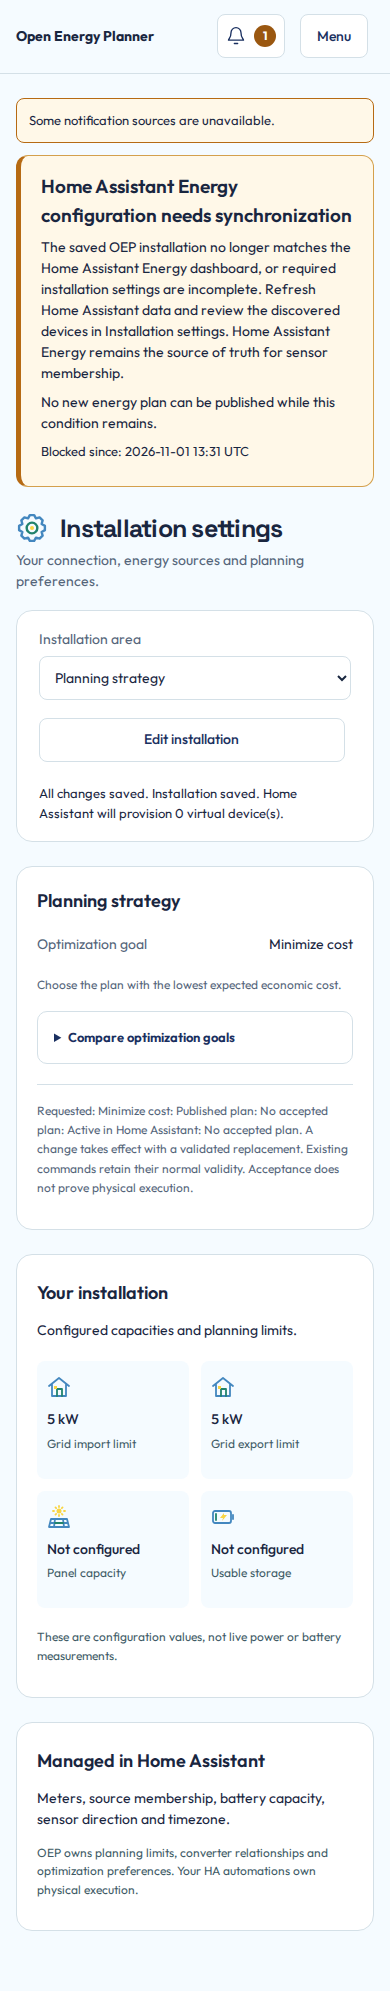
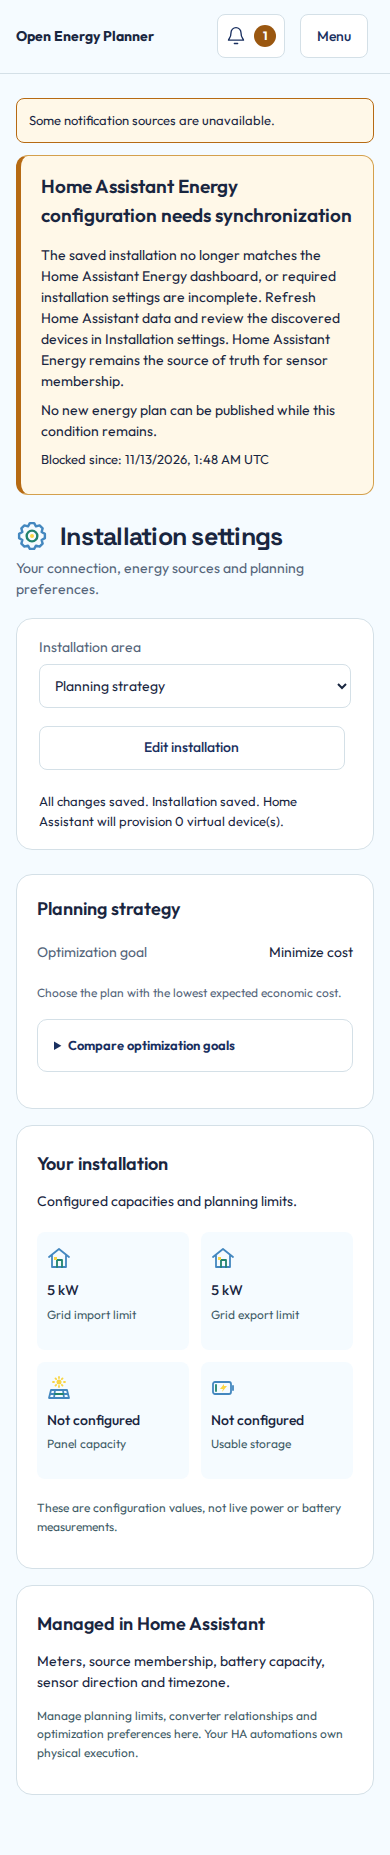
fix: keep background installation reads behind active edits

Changed region(s): [[0.0308, 0.0, 0.9538, 0.9526], [0.8615, 0.338, 0.8923, 0.3995]]

diff --git a/src/open_energy_planner/web/public/setup.js b/src/open_energy_planner/web/public/setup.js
@@ -774,8 +774,7 @@ async function refreshPriceSources() {
         $("price-source-provenance").replaceChildren();
         $("price-market").textContent = "Price source status unavailable. Retrying automatically.";
     }
-    // A delayed price response must not supersede an explicit preference save or reload.
-    if (!saveState.busy) refreshStrategy();
+    refreshStrategy();
     try { await refreshSourceNames(); }
     catch { /* Retain the last confirmed names when metadata is temporarily unavailable. */ }
     priceTimer = setTimeout(refreshPriceSources, PRICE_STATUS_REFRESH_MS);
@@ -818,7 +817,12 @@ async function refreshSourceNames(signal) {
 /** Reload HA discovery and confirmed settings. Keep source identities and independent revision guards. */
 async function load(refresh = false, discard = false, signal) {
     const generation = ++configurationGeneration;
-    const nextConfig = await api(refresh ? "/v1/setup?refresh=1" : "/v1/setup", "GET", undefined, signal);
+    let nextConfig;
+    try { nextConfig = await api(refresh ? "/v1/setup?refresh=1" : "/v1/setup", "GET", undefined, signal); }
+    catch (error) {
+        if (generation !== configurationGeneration) return;
+        throw error;
+    }
     if (generation !== configurationGeneration) return;
     if (nextConfig.mode !== "home_assistant")
         throw new Error("Installation setup requires Home Assistant mode.");
@@ -1141,6 +1145,8 @@ initializeIngress();
 
 /** Load the independent preference without delaying installation rendering or reporting aborted reads. */
 async function refreshStrategy(updateChoice = false, signal) {
+    // Background reads must yield to the active save or reload's preference baseline.
+    if (!updateChoice && saveState.busy) return;
     const pending = loadStrategy(updateChoice, signal);
     const requestVersion = strategyRequestVersion;
     try { await pending; }

diff --git a/tests/frontend/browser/test_installation.py b/tests/frontend/browser/test_installation.py
@@ -18,6 +18,7 @@ from tests.frontend.browser.helpers import (
     installation_area,
     physical_plan,
     read_settings,
+    wait_for_product_reads,
 )
 
 
@@ -1445,6 +1446,8 @@ def test_installation_is_usable_before_strategy_preference_arrives(app_page):
     expect(page.get_by_label("Maximum grid import (kW)", exact=True)).to_be_visible()
     page.get_by_label("Maximum grid import (kW)", exact=True).fill("7")
     assert pending
+    expect(page.locator("#strategy")).to_have_value("")
+    expect(page.locator("#strategy")).to_be_disabled()
     for route in pending:
         route.fulfill(json={"requested": "minimize cost", "issue": None})
     page.unroute("**/v1/strategy")
@@ -1584,4 +1587,66 @@ def test_strategy_reload_owns_baseline_during_inflight_price_poll(app_page, acti
         page.clock.fast_forward(31000)
     expect(page.locator("#strategy")).to_have_value(next_goal)
     expect(page.locator("#strategy-status")).to_be_empty()
+    expect(page.locator("#installation-save-state")).to_contain_text("All changes saved")
+
+
+def test_pending_discovery_cannot_supersede_saved_strategy_baseline(app_page):
+    """An Energy-discovery retry during a real strategy save must preserve its confirmed baseline and next CAS write."""
+    page, url = app_page
+    page.clock.install()
+    page.goto(url + "/setup")
+    page.get_by_label("Installation API token", exact=True).fill(TOKEN)
+    page.get_by_role("button", name="Connect", exact=True).click()
+    edit_strategy(page)
+    wait_for_product_reads(page)
+    page.get_by_label("Optimization goal", exact=True).select_option("minimize consumption")
+    pending = []
+
+    def hold_explicit_preference(route):
+        """Hold the save confirmation read while the real discovery timer issues background reads."""
+        if route.request.method != "GET":
+            route.continue_()
+        elif not pending:
+            pending.append(route)
+            page.evaluate("window.savedPreferenceReadHeld = true")
+        else:
+            route.fulfill(json={"requested": "minimize consumption", "issue": None})
+
+    page.route("**/v1/strategy", hold_explicit_preference)
+    with page.expect_request(
+        lambda request: request.url.endswith("/v1/strategy") and request.method == "GET"
+    ):
+        page.get_by_role("button", name="Save planning strategy", exact=True).click()
+    page.wait_for_function("() => window.savedPreferenceReadHeld === true")
+    expect(page.locator("#installation-save-state")).to_contain_text("Saving changes")
+    page.clock.fast_forward(5100)
+    expect(page.locator("#status")).to_contain_text("Waiting for Home Assistant")
+    expect(page.locator("#strategy")).to_be_disabled()
+    pending[0].fulfill(json={"requested": "minimize consumption", "issue": None})
+    expect(page.locator("#installation-save-state")).to_contain_text("All changes saved")
+    expect(page.locator("#strategy")).to_have_value("minimize consumption")
+    headers = {"Authorization": f"Bearer {TOKEN}"}
+    assert page.request.get(url + "/v1/strategy", headers=headers).json() == {
+        "requested": "minimize consumption",
+        "issue": None,
+    }
+    page.unroute("**/v1/strategy")
+    edit_strategy(page)
+    page.get_by_label("Optimization goal", exact=True).select_option("minimize cost")
+    with page.expect_request(
+        lambda request: request.url.endswith("/v1/strategy") and request.method == "PUT"
+    ) as saved_request:
+        page.get_by_role("button", name="Save planning strategy", exact=True).click()
+    assert saved_request.value.post_data_json == {
+        "strategy": "minimize cost",
+        "expected_strategy": "minimize consumption",
+    }
+    expect(page.locator("#installation-save-state")).to_contain_text("All changes saved")
+    assert (
+        page.request.get(url + "/v1/strategy", headers=headers).json()["requested"]
+        == "minimize cost"
+    )
+    assert read_settings(page, url)["installation"] is None
+    page.clock.fast_forward(5100)
+    expect(page.locator("#strategy")).to_have_value("minimize cost")
     expect(page.locator("#installation-save-state")).to_contain_text("All changes saved")

diff --git a/tests/frontend/browser/test_installation_reload_ownership.py b/tests/frontend/browser/test_installation_reload_ownership.py
@@ -94,7 +94,7 @@ def test_export_permission_preserves_captured_field_ownership(app_page, ownershi
 def test_delayed_background_reload_preserves_newer_installation_ownership(
     app_page, action, outcome
 ):
-    """Release the actual source-name reload's held strategy response after Edit or Save and retain its draft/revisions."""
+    """Release the actual source-name reload's held configuration response after Edit or Save and retain its draft/revisions."""
     page, url = app_page
 
     def expose_probe(route):
@@ -120,21 +120,22 @@ def test_delayed_background_reload_preserves_newer_installation_ownership(
     changed["solar"]["version"] = "b" * 64
     page.route("**/v1/setup", lambda route: route.fulfill(json=changed))
     page.evaluate(
-        """outcome => {
+        """({outcome,changed}) => {
         const nativeFetch=window.fetch;
-        window.strategyHeld=false;
+        let configurationReads=0;
+        window.reloadHeld=false;
         window.fetch=(path,options)=>{
-            if(String(path).endsWith('v1/strategy')&&options.signal) {
-                window.strategyHeld=true;
-                return new Promise((resolve,reject)=>{window.completeStrategy=()=>outcome==='failure'?reject(new TypeError('PRIVATE-STAGED-READ')):resolve(new Response(JSON.stringify({requested:'minimize cost'})));});
+            if(String(path).endsWith('v1/setup')&&options.signal&&++configurationReads===2) {
+                window.reloadHeld=true;
+                return new Promise((resolve,reject)=>{window.completeReload=()=>outcome==='failure'?reject(new TypeError('PRIVATE-STAGED-READ')):resolve(new Response(JSON.stringify(changed)));});
             }
             return nativeFetch(path,options);
         };
         window.pendingRefresh=window.__installationProbe.refresh(AbortSignal.timeout(65000));
     }""",
-        outcome,
+        {"outcome": outcome, "changed": changed},
     )
-    page.wait_for_function("() => window.strategyHeld")
+    page.wait_for_function("() => window.reloadHeld")
     page.get_by_role("button", name="Edit installation", exact=True).click()
     maximum = page.get_by_label("Maximum grid import (kW)", exact=True)
     if action != "edit-only":
@@ -149,7 +150,7 @@ def test_delayed_background_reload_preserves_newer_installation_ownership(
         assert (
             read_settings(page, url)["installation"]["version"] == owned["installation"]["version"]
         )
-    page.evaluate("async()=>{window.completeStrategy();await window.pendingRefresh;}")
+    page.evaluate("async()=>{window.completeReload();await window.pendingRefresh;}")
     assert page.evaluate("window.__installationProbe.config()") == owned
     expect(maximum).to_have_value("5" if action == "edit-only" else "7.25")
     expect(page.locator("#installation-save-state")).to_have_text(owned_status)

diff --git a/docs/users/installation.md b/docs/users/installation.md
@@ -100,9 +100,9 @@ Select **Planning strategy** in the installation area selector. The saved **Opti
 
 [![Saved optimization goal and its explanation in Installation settings.](../assets/optimization-goal.png)](../assets/optimization-goal.png)
 
-*The selected goal is saved configuration. Home Assistant acceptance is separate status evidence and does not prove physical execution.*
+*The saved goal applies to the next replacement plan.*
 
-The new choice requests a replacement plan. Requested, published and accepted strategies can temporarily differ. A failed replacement does not rewrite the old plan or extend its validity. See [how the goals differ](how-oep-works.md#choose-the-optimization-goal).
+Saving requests a replacement plan. Installation shows the saved preference while the new plan is being calculated. A failed replacement does not rewrite the old plan or extend its validity. See [how the goals differ](how-oep-works.md#choose-the-optimization-goal).
 
 ## Revisit a saved installation
 
